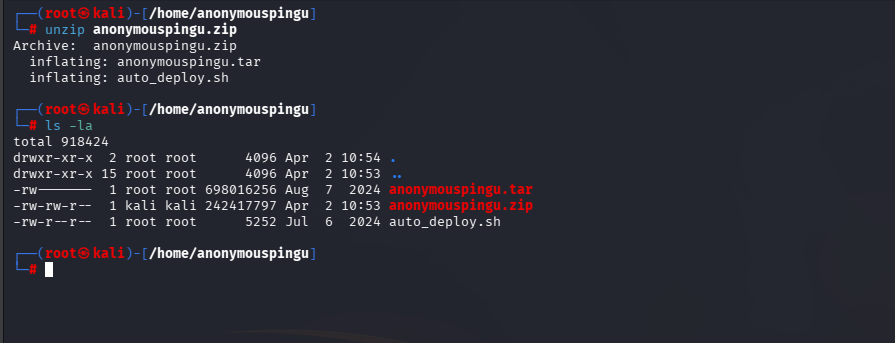
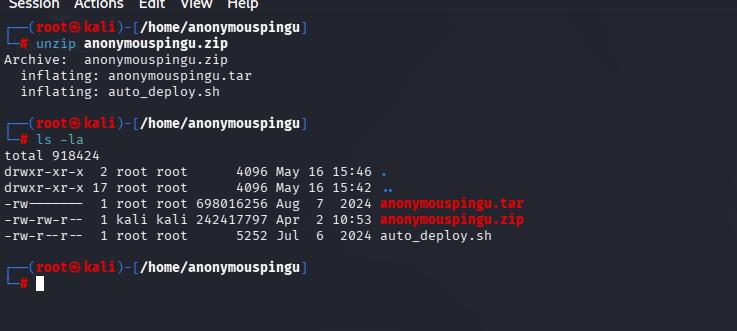
Nuevo ChocolateFire + Modificación AnonymousPingu

Changed region(s): [[0.0, 0.0, 0.7178, 0.8761]]

diff --git a/DockerLabs/chocolateFire/README.md b/DockerLabs/chocolateFire/README.md
@@ -1,0 +1,164 @@
+<center><h1>ChocolateFire</h1></center>  
+<p align="center">
+
+<img src="img/banner.png" width="400">
+
+
+## ❓ ¿Qué es ChocolateFire?
+
+ChocolateFire es una máquina vulnerable enfocada en la explotación de servicios mal configurados en entornos Linux, combinando técnicas de reconocimiento, enumeración y escalada de privilegios. A lo largo del laboratorio se trabaja la identificación de servicios expuestos y el análisis de aplicaciones web vulnerables, aprovechando configuraciones inseguras y credenciales débiles para obtener acceso inicial al sistema. Posteriormente, la máquina permite profundizar en la enumeración interna y el abuso de permisos mal asignados, aplicando diferentes técnicas de escalada de privilegios hasta comprometer completamente el servidor. Se trata de un entorno ideal para practicar metodologías de pentesting en escenarios realistas relacionados con servicios de administración, autenticación y configuraciones inseguras en sistemas Linux.
+
+
+> [!NOTE]
+>
+>Puede descargar la máquina a través del **[enlace mega](https://mega.nz/file/wWslhSQS#jmz3PksTmtOaitgKwS7dcgc8Vd7o6pECPViav9clzwA)**
+
+
+## 🔝 Despliegue ChocolateFire
+
+Al descargar la máquina, es necesario descompromirlo para poder encontrar los archivos necesarios para poder desplegarla, para ello, utilizaremos el comando.
+
+**unzip chocolatefire.zip.**
+
+![unzip ChocolateFire](img/unzip.png)
+
+Obtendremos dos ficheros:
+- **Auto_deploy.sh:** Script Bash para desplegar nuestra máquina localmente.
+- **chocolatefire.tar:** Máquina vulnerable contenizada.
+
+Para desplegar el servicio será necesario carle permisos de ejecución a auto_deploy.sh, ya que por defecto tiene permisos 644. Para ello, usaremos el comando:
+
+ **chmod +x auto_deploy.sh**
+
+ Una vez ejecutado, se utilizará el comando **./auto_deploy.sh anonymochocolatefireuspingu.tar** para lanzar la máquina
+
+![Despliegue](img/despliegue.png)
+
+## 🔎 Fase de Descubrimiento 
+Ahora, se abrirá una nueva terminal para empezar a realizar el descubrimiento del sistema. Cómo sabemos la dirección IP de la máquina vulnerable **(172.17.0.2)**, comenzaremos realizando un escaneo de red nmap. 
+En esta ocación, se usará el comando **nmap -sC -sV -T5 172.17.0.2**
+
+En este caso, he añadido -oN escaneo.txt para tener el escaneo guardado en un fichero sin necesidad repetirlo en un futuro.
+
+| Argumento | Significado |
+|---|---|
+| -sC | Ejecuta los scripts para comprobaciones comunes |
+| -sV | Detección de versiones de servicios |
+| -T5 | Velocidad máxima |
+| 172.17.0.2 | Dirección IP del objetivo a escanear |
+
+
+![Escaneo](img/nmap.png)
+
+> [!NOTE]
+>
+>Se ha realizado un escaneo agresivo debido a que se está realizando en un entorno controlado y no es importante el ser detectado. Si se busca hacer el mínimo ruido posible será necesario utilizar el argumento **-sS** se usa para no ser detectado fácilmente, porque no completa la conexión TCP. Además, **no se usará -T5.**
+
+
+En este caso, se ha encontrado un servicio activo:
+
+- **SSH (puerto 22):** Servicio de acceso remoto seguro para administración del sistema.
+- **XMPP / Openfire (puerto 5222): **Servicio de mensajería instantánea y presencia basado en el protocolo XMPP.
+- **Jetty / Openfire HTTP Binding (puerto 7070): **Servidor web embebido utilizado por Openfire para comunicación HTTP.
+- **SOCKS5 (puerto 7777):** Proxy de red sin autenticación, potencialmente utilizable para pivoting.
+- **Apache Hadoop / interfaz web (puerto 9090):** Servicio web de gestión o panel asociado a almacenamiento distribuido.
+
+A continuación, se dispone a visitar la página web por el puerto 9090 se encuentra un panel de login:
+
+![Panel de logeo](img/login.png)
+
+Para poder acceder al sistema busqué en internet las credenciales por defecto para el servicio
+
+![Credenciales por defecto](img/creds_default.png)
+
+
+
+![Acceso Openfire](img/acceso_openfire.png)
+
+
+
+## 🖥️ Acceso al servidor
+
+
+Durante la revisión del sistema, en la sección System Properties, se identificó el nombre de usuario chocolatitochingon dentro del valor asignado a la propiedad admin.authorizedJIDs
+
+![Usuario](img/usuario.png)
+
+Este usuario al usarlo con hydra al servicio ssh encuentra la credencial **chocolate**
+
+| Argumento | Significado |
+|---|---|
+| hydra | Herramienta de ataque de fuerza bruta. |
+| -l mario | Especifica un usuario. |
+| -P /usr/share/wordlists/Rockyou.txt.gz| Archivo con diccionario de contraseñas. |
+| ssh://172.18.0.2| Protocolo y dirección IP del objetivo. |
+| -t 64 | Número de hilos utilizados (velocidad). |
+
+![Credencial obtenido por Hydra](img/credencial.png)
+
+
+Se dispone a acceder al servidor mediante SSH:
+
+![Acceso al servidor](img/acceso.png)
+
+## 🔓 Escalada de privilegios
+
+A continuación, se realiza **sudo -l** para obtener los binarios que se pueden ejecutar con permisos administrador.
+
+![Binarios](img/binarios.png)
+
+Se encuentra que el usuario pinguinacio puede ejecutar **dpkg**.
+
+En [GTFobins](https://gtfobins.github.io/gtfobins/dpkg/#sudo) aparace cómo poder escalar privilegios sudo.
+
+![GTFobins](img/gtfobins.png)
+
+Se ejecuta **sudo -u pinguinacio /usr/bin/dpkg -l**. Dentro se utiliza "!" para poder escribir en la terminal para poder abrir una shell usando !/bin/bash.
+
+![Acceso Pinguinacio](img/acceso_pingu.png)
+
+A continuación, se vuelve a ejecutar **sudo -l** para ver los binarios que puede ejecutar desde pinguinacio
+
+![Binarios Pingu](img/binarios_pingu.png)
+
+En este caso encontramos que con todos los usuarios puede ejecutar el fichero script.sh localizado en /home/pinguinacio sin necesidad de una contraseña.
+
+![Script](img/script.png)
+
+Es un script sencillo en Bash donde se pide al usuario introducir el número 1 para poder copiar archivos al directorio /opt.
+
+Para ejecutarlo es necesario usar:
+
+**sudo -u root /bin/bash /home/pinguinacio/script.sh**
+
+El problema aparece porque el script no valida la entrada del usuario.
+Dentro del read, el usuario puede introducir una cadena maliciosa como **a[$(/bin/bash >&2)]+1**. Bash ejecuta /bin/bash inmediatamente durante la expansión, antes de evaluar la comparación y aunque luego falle.
+
+
+Para ejecutarlo es necesario utilizar **sudo -u root /bin/bash /home/pinguinacio/script.sh**
+
+Dentro se introducirá a[$(/bin/bash >&2)]+1
+
+![Acceso Root](img/root.png)
+
+## 🧪 Post-Laboratorio
+Una vez finalizada la máquina, en la terminal donde se tiene desplegada la máquina vulnerable se utilizará la combinación de teclas **Control + C** para eliminarla.
+
+![Cerrar laboratorio](img/cerrar.png)
+
+## <img src="./img/logoactual.jpg" width=25 style="; border-radius:50%;">  ¡Hola! Me llamo Saúl Ruiz 
+### Estudiante en Ciberseguridad
+
+
+![YouTube](https://img.shields.io/youtube/channel/subscribers/UCcOkvgreZrXauRHyXlii0JA)
+![Seguidores](https://img.shields.io/github/followers/saulruizplaza)
+[![Twitter Follow](https://img.shields.io/twitter/follow/plasysx?style=social)](https://twitter.com/plasysx)
+
+Soy estudiante de Administración de Sistemas Informáticos en Red con pasión por la ciberseguridad y el mundo de la informática. Desde pequeño disfruto explorando tecnología y aprendiendo de manera autónoma. Además, combino mis estudios con la creación de contenido y recursos educativos sobre informática a través de mi proyecto personal <b>[@PlaSysX](https://linktr.ee/PlaSysx)</b>
+
+Si quieres aprender informática, mejorar tus habilidades, descubrir trucos y soluciones prácticas, y formar parte de nuestra comunidad, puedes seguirnos en PlaSysX.
+
+[![LinkedIn](https://img.shields.io/badge/LinkedIn-Saúl_Ruiz_Plaza-0077B5?style=for-the-badge&logo=linkedin&logoColor=white&labelColor=101010)](https://www.linkedin.com/in/saulruizplaza) [![Instagram](https://img.shields.io/badge/Instagram-@PlaSysX-E4405F?style=for-the-badge&logo=instagram&logoColor=white&labelColor=101010)](https://instagram.com/plasysx)
+[![TikTok](https://img.shields.io/badge/TikTok-@plasysx_es-69C9D0?style=for-the-badge&logo=tiktok&logoColor=white&labelColor=101010)](https://tiktok.com/@plasysx_es)
+[![YouTube](https://img.shields.io/badge/YouTube-Plasysx-FF0000?style=for-the-badge&logo=youtube&logoColor=white&labelColor=101010)](https://youtube.com/@Plasysx)
+[![Twitter](https://img.shields.io/badge/Twitter-@plasysx-1DA1F2?style=for-the-badge&logo=twitter&logoColor=white&labelColor=101010)](https://twitter.com/plasysx)

diff --git a/DockerLabs/AnonymousPingu/README.md b/DockerLabs/AnonymousPingu/README.md
@@ -20,8 +20,7 @@ Al descargar la máquina, es necesario descompromirlo para poder encontrar los a
 
 **unzip anonymouspingu.zip.**
 
-![unzip WanonymousPingu](img/unzip.png)
-
+![unzip anonymousPingu](img/unzip.png)
 Obtendremos dos ficheros:
 - **Auto_deploy.sh:** Script Bash para desplegar nuestra máquina localmente.
 - **anonymouspingu.tar:** Máquina vulnerable contenizada.

diff --git a/README.md b/README.md
@@ -57,7 +57,9 @@ Soluciones de máquinas de **DockerLabs** organizadas por dificultad.
 - [`AnonymousPingu`](/DockerLabs/AnonymousPingu/README.md) → Explotación de un servicio File Transfer Protocol con acceso anónimo y de un servidor web Apache HTTP Server mediante subida de archivos maliciosos, ejecución remota de código a través de una web shell en PHP, obtención de acceso remoto mediante reverse shell y escalada de privilegios en Linux mediante abuso de binarios sudo inseguros documentados en GTFOBins.
 
 
+### Medio
 
+- [`ChocolateFire`](/DockerLabs/chocolateFire/README.md) → Explotación de servicios mal configurados en entornos Linux mediante enumeración de servicios expuestos, acceso a paneles administrativos con credenciales débiles, obtención de acceso remoto al sistema a través de servicios vulnerables y escalada de privilegios mediante abuso de permisos sudo inseguros y configuraciones incorrectas documentadas en GTFOBins.
 
 ## 📦 WriteUps en HackTheBox
 ![HackTheBox](hackthebox.png)